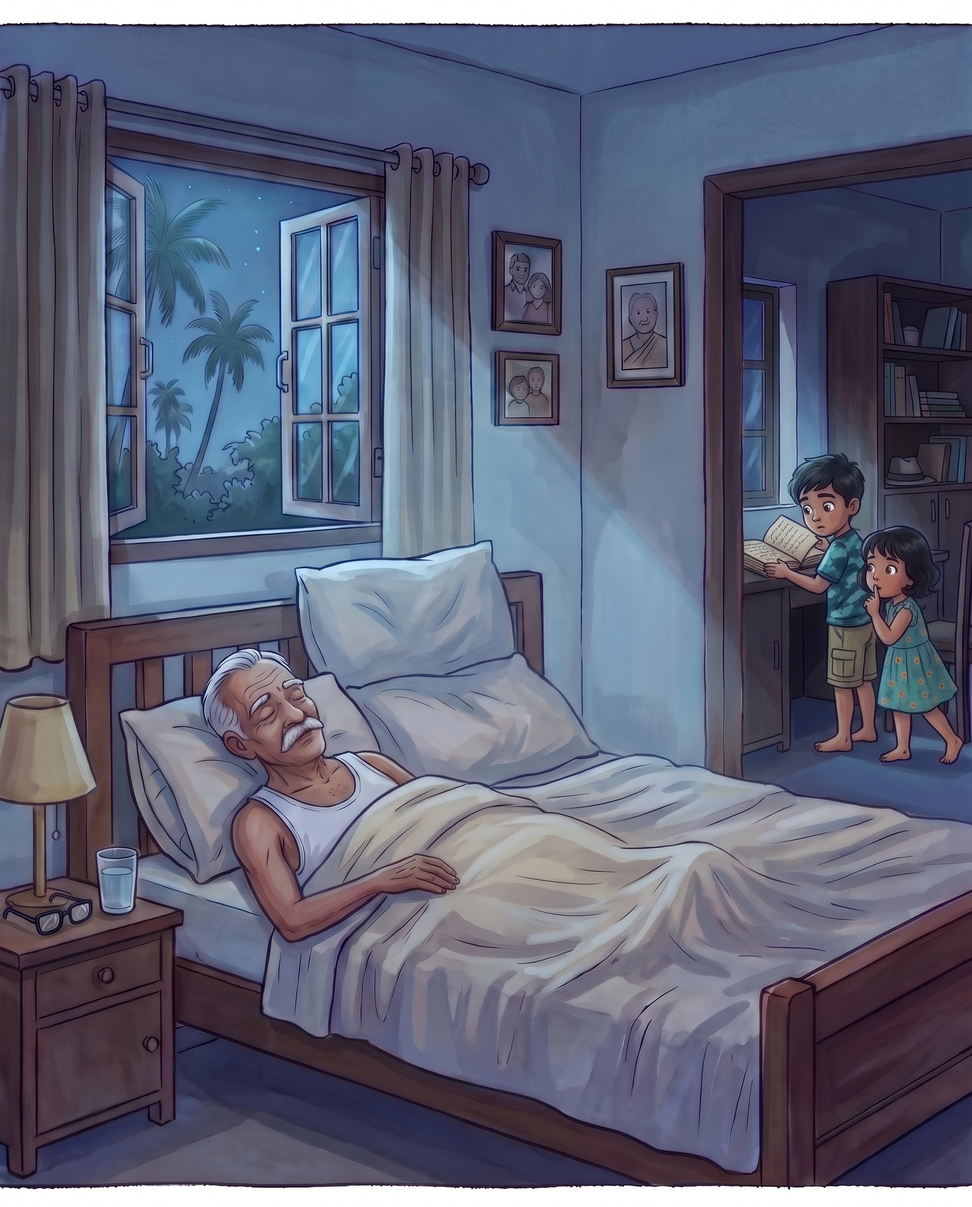
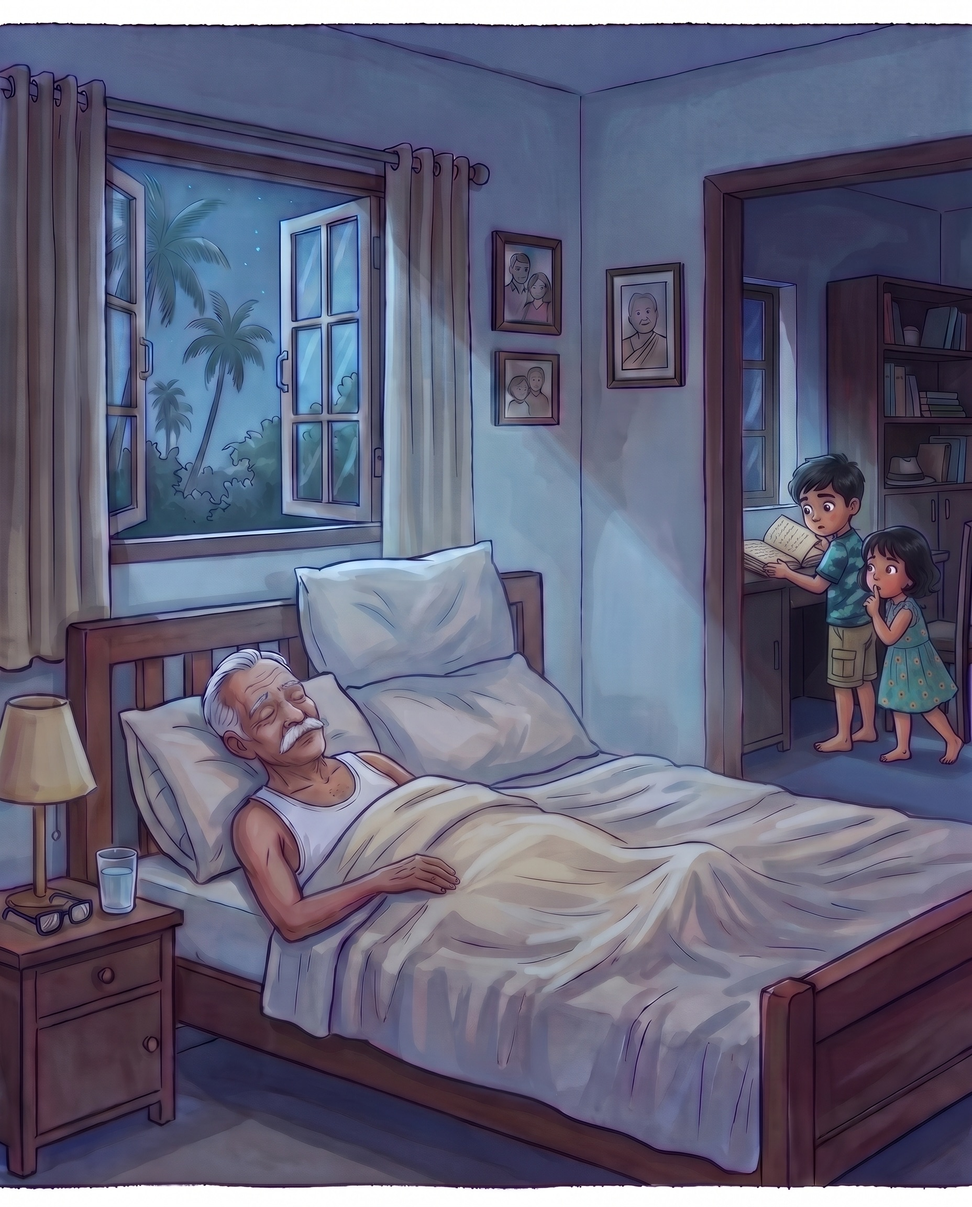
Comics: Achachan's eyebrows thin and light grey, as in Raju's photo
Present-day Achachan redrawn in Chapter 2 panels 1, 2, 3 and 16 and
Chapter 1 panel 12 with thin, sparse, light-grey eyebrows instead of thick
white ones. Share sheets for both chapters re-rendered; cache versions bumped.

diff --git a/comics/appuman-harvest/index.html b/comics/appuman-harvest/index.html
@@ -60,7 +60,7 @@
 <script>
 var COMIC = {
   twoUp: true,  // two panels per row, uncropped pictures
-  v: '7',  // bump whenever a panel image changes, so browsers drop their cached copies
+  v: '8',  // bump whenever a panel image changes, so browsers drop their cached copies
   next: "Next time: Kunjan's rickshaw!",
   nextUrl: '../../stories/kunjan-rickshaw.html',
   nextLink: 'Read Chapter 3 →'

diff --git a/comics/chiyyaram-childhood/index.html b/comics/chiyyaram-childhood/index.html
@@ -59,7 +59,7 @@
 <script src="story.js?v=5"></script>
 <script>
 var COMIC = {
-  v: '11',  // bump whenever a panel image changes, so browsers drop their cached copies
+  v: '12',  // bump whenever a panel image changes, so browsers drop their cached copies
   next: 'Next time: who was Appuman?',
   nextUrl: '../appuman-harvest/index.html',
   nextLink: 'Read the next comic →'
